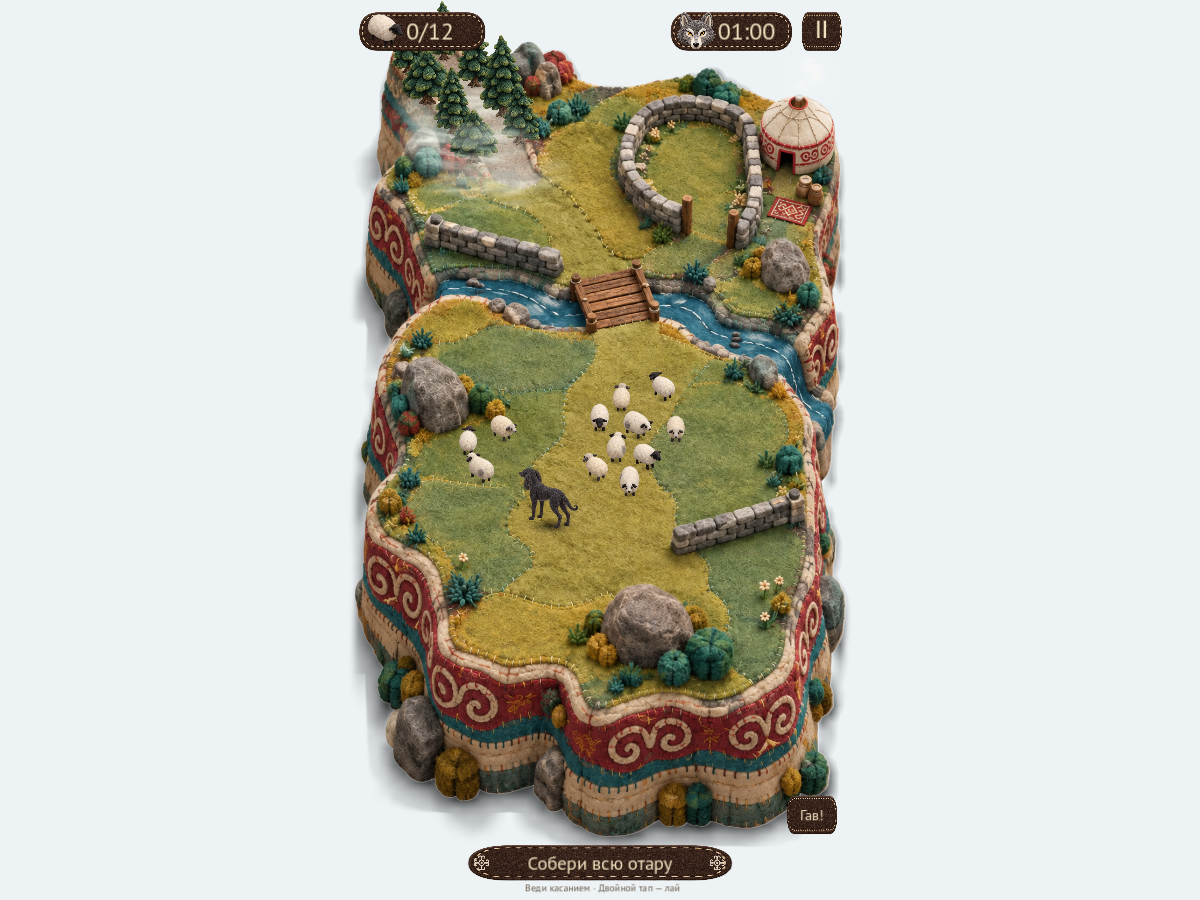
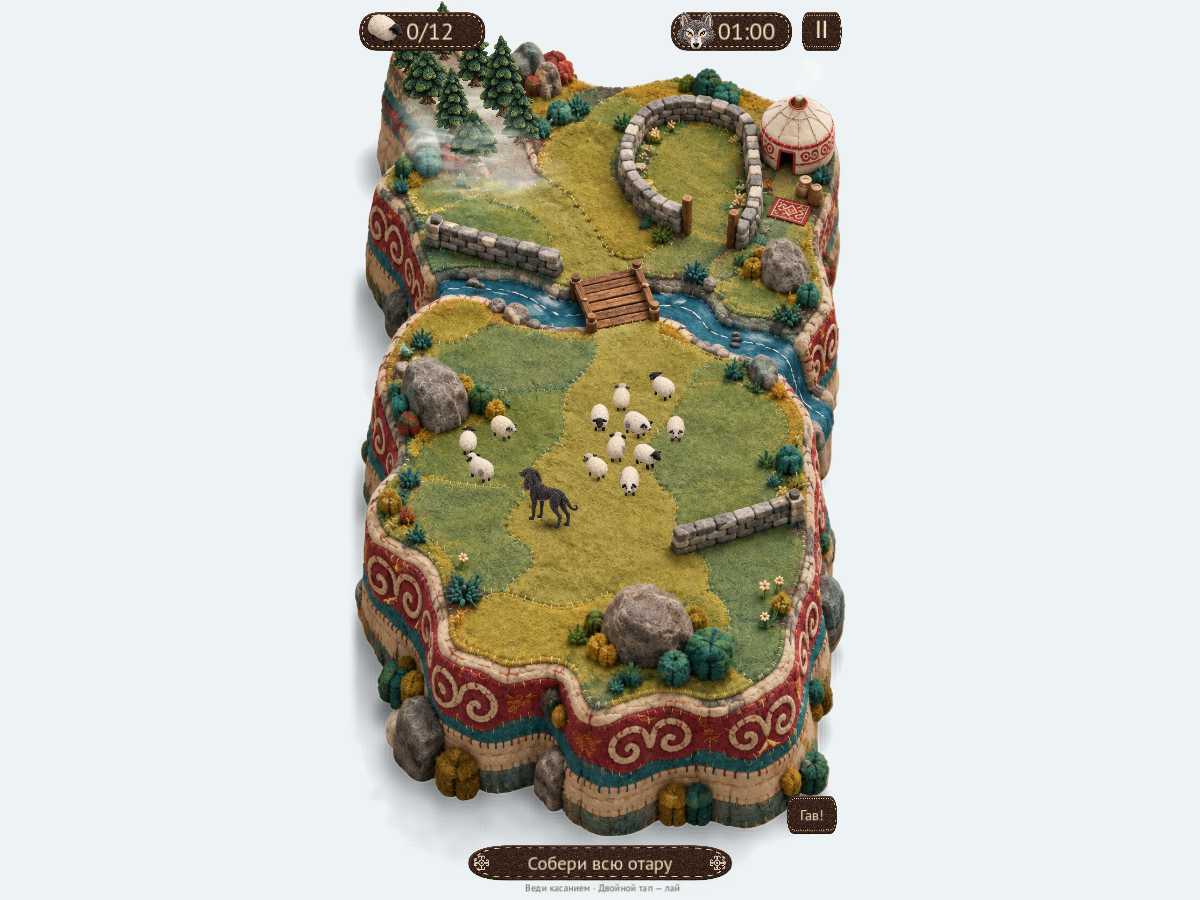
fix: refine island shadow shader sampling and add padding for proper shadow fade
The shader now uses a 5x5 weighted sampling kernel instead of a single mip sample, preventing dark island pixels from bleeding into the exterior cloth reconstruction. Adds a vertex expansion pass to give the cast shadow room to fade beyond the source rectangle, and removes the previous near-island and image-edge masking in favor of cleaner boundary handling. Updates accompanying documentation screenshots.

diff --git a/docs/verification.md b/docs/verification.md
@@ -91,3 +91,9 @@ Godot 4.7.2, macOS, OpenGL Compatibility / Apple M4 Max.
 ## Направленная тень острова
 
 После обратной связи усилена падающая тень с левой стороны: смещение −30/+18 пикселей исходника, общая непрозрачность 0.64. Узкая контактная тень остаётся у основания; широкий слой смещён дальше величины размытия, поэтому правая освещённая сторона не получает равномерную обводку. Слои объединяются по прозрачности без двойного затемнения. Проверены войлочная и светлая подложки, графические журналы без ошибок. Актуальный кадр: `island-directional-shadow.png`.
+
+## Тень из исходного рисунка — 30 сентября 2026
+
+Предыдущий вариант со смещением отклонён: остров выглядел приподнятым. Теперь отдельная сцена тени использует затемнение исходной ткани относительно её свободных углов, сохраняя положение тени у основания. Нейтральный чёрный цвет с прозрачностью позволяет менять подложку. Фильтр усредняет только внешнюю ткань: тёмные пиксели самого острова исключены, чтобы не создавать дополнительный ореол. Убрано ограничение тени грубо размытым силуэтом, которое давало неровные пятна по краю.
+
+Просмотрены финальные кадры в Godot 4.7.2 на войлоке днём и ночью, а также на однотонной светлой подложке. Все три графических журнала без ошибок. Текущий дневной кадр: `island-reference-shadow.png`. Исходный рисунок острова и игровая логика не менялись; игровые тесты для этой визуальной правки повторно не запускались.
